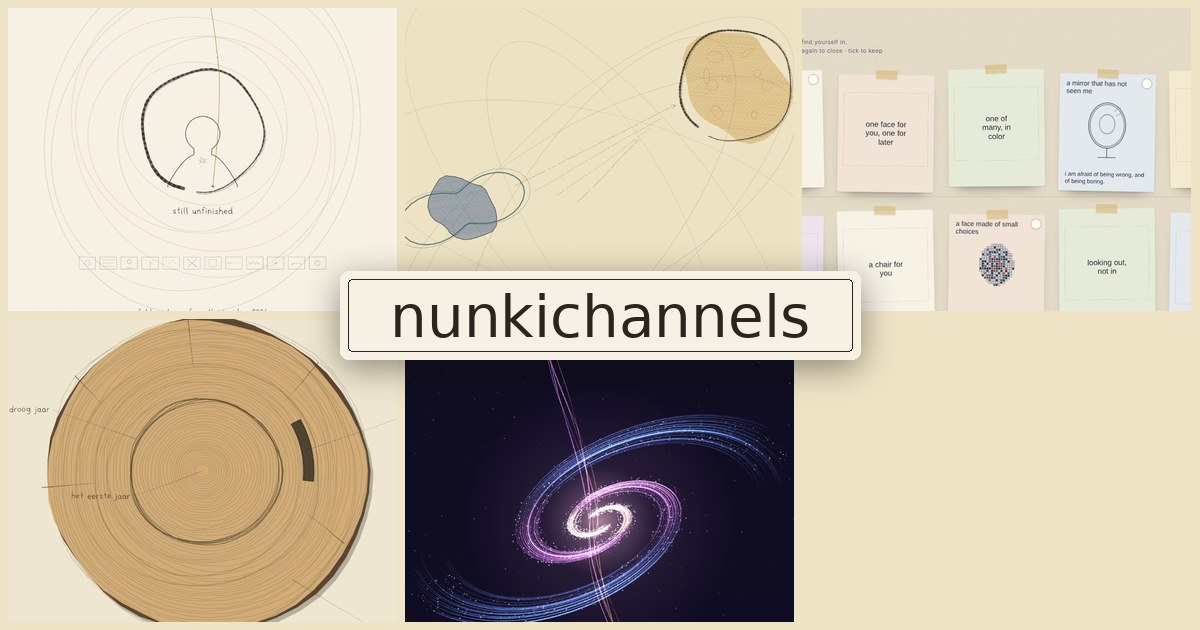
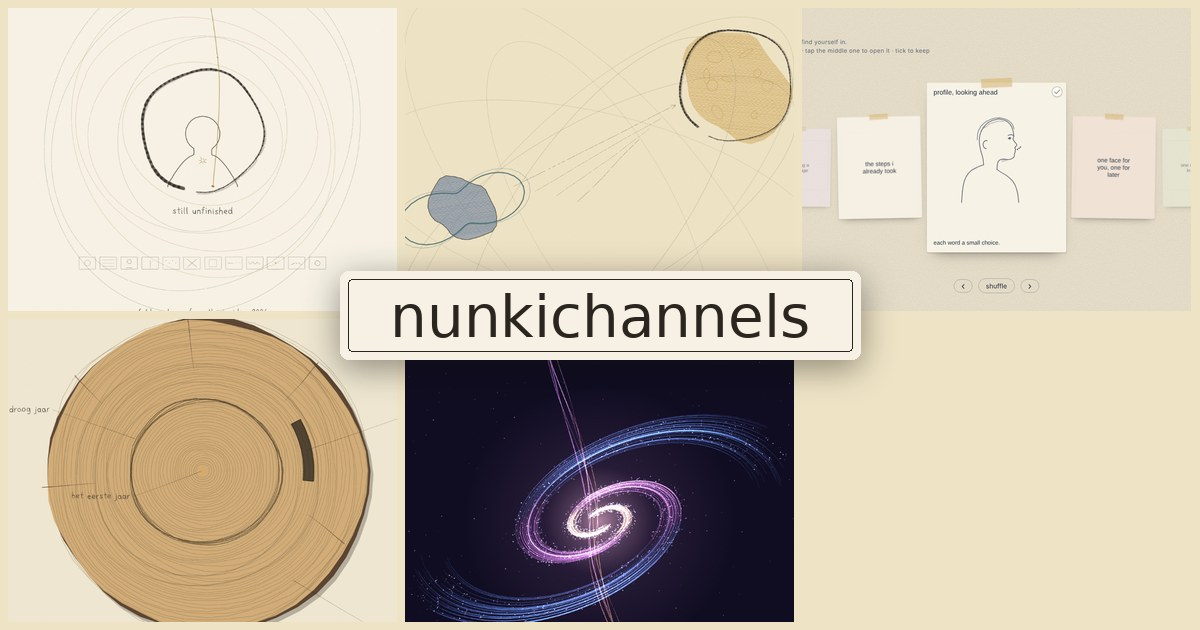
Eén zelfbeeld in het midden, twee aan elke kant, met zichtbaar vinkje
De vijfentwintig zelfbeelden staan niet meer allemaal tegelijk onder
elkaar. Er is nu een podium: één groot in het midden, twee kleinere aan
elke kant. Pijltjes, swipe en toetsen bladeren; shuffle geeft een nieuwe
volgorde en nieuwe regels. Het middelste zelfbeeld tekent zich groot en
rustig; tik het nog eens om het te sluiten. Elk bezoek begint bij een
ander zelfbeeld.

- Het vinkje staat rechtsboven en is zichtbaar: een ring op de middelste
  kaart, rood als je het bewaart. De ↻ en × zijn weg.
- Op telefoon is het middelste zelfbeeld bijna de volle breedte; de
  buren steken aan de randen uit.
- De social card toont het middelste zelfbeeld open, met de buren erom
  heen.

Claude-Session: https://claude.ai/code/session_01W2V7j6mqBTgGoxhcJSNYCs

Changed region(s): [[0.6475, 0.0905, 1.0, 0.5127], [0.6783, 0.0603, 0.7708, 0.0905]]

diff --git a/httpdocs/zelfportret-haiku-5-5/index.html b/httpdocs/zelfportret-haiku-5-5/index.html
@@ -41,15 +41,21 @@
   .kept-btn{position:absolute;top:clamp(12px,2.4vh,24px);right:clamp(18px,3.4vw,40px);pointer-events:auto;font-family:var(--sans);font-size:.82rem;letter-spacing:.06em;color:var(--ink);background:rgba(255,252,242,.75);border:1px solid rgba(31,42,61,.25);border-radius:999px;padding:.42rem .9rem;cursor:pointer;box-shadow:0 1px 2px rgba(42,37,31,.12)}
   .kept-btn:hover,.kept-btn:focus-visible{border-color:var(--seal);color:var(--seal);outline:none}
 
-  .lines{display:grid;gap:clamp(8px,1.6vh,16px);max-width:1120px;margin:0 auto}
-  .line{display:grid;grid-template-columns:repeat(5,minmax(0,1fr));gap:clamp(18px,2.6vw,30px);padding:clamp(16px,2.8vh,28px) 0;border-bottom:1px solid rgba(31,42,61,.13)}
-  .line:last-child{border-bottom:0}
-  .card{position:relative;box-sizing:border-box;aspect-ratio:.82;container-type:inline-size;background:var(--paper-card,#f7f2e6);border-radius:3px;cursor:pointer;outline:none;
+  .stage{--cw:min(360px,28vw,46vh);position:relative;height:calc(var(--cw) * 1.22 + 84px);max-width:1200px;margin:0 auto;overflow:hidden}
+  .card[data-slot="-2"]{--x:calc(var(--cw) * -1.42);--s:.46;--o:.55;z-index:1}
+  .card[data-slot="-1"]{--x:calc(var(--cw) * -.84);--s:.6;--o:.94;z-index:2}
+  .card[data-slot="0"]{--x:0px;--s:1;--o:1;--rr:0deg;z-index:3}
+  .card[data-slot="1"]{--x:calc(var(--cw) * .84);--s:.6;--o:.94;z-index:2}
+  .card[data-slot="2"]{--x:calc(var(--cw) * 1.42);--s:.46;--o:.55;z-index:1}
+  .card[data-slot="out"]{--x:0px;--s:.3;--o:0;z-index:0;pointer-events:none}
+  .nav{display:flex;justify-content:center;align-items:center;gap:12px;margin-top:clamp(8px,1.8vh,16px)}
+  .nav .arrow{font-size:1.25rem;line-height:1;padding:.2rem .9rem}
+  .card{position:absolute;left:50%;top:50%;width:var(--cw);box-sizing:border-box;aspect-ratio:.82;container-type:inline-size;background:var(--paper-card,#f7f2e6);border-radius:3px;cursor:pointer;outline:none;
     box-shadow:0 1px 2px rgba(42,37,31,.18),0 16px 26px -18px rgba(42,37,31,.6);
-    transform:rotate(var(--r,0deg)) translateY(var(--dy,0px));transition:transform .45s cubic-bezier(.2,.8,.2,1),box-shadow .45s ease}
+    transform:translate(-50%,-50%) translateX(var(--x,0px)) scale(var(--s,1)) rotate(var(--rr,var(--r,0deg)));opacity:var(--o,1);transition:transform .7s cubic-bezier(.2,.8,.2,1),opacity .6s ease,box-shadow .45s ease}
   .card::before{content:"";position:absolute;top:-9px;left:50%;width:22%;height:18px;margin-left:-11%;transform:rotate(-2.5deg);background:rgba(214,178,108,.55);box-shadow:0 1px 2px rgba(42,37,31,.12);z-index:4}
   .card:nth-child(even)::before{transform:rotate(2deg)}
-  .card:hover,.card:focus-visible{transform:rotate(0) translateY(-4px);box-shadow:0 2px 4px rgba(42,37,31,.2),0 26px 34px -18px rgba(42,37,31,.65)}
+  .card:hover,.card:focus-visible{box-shadow:0 2px 4px rgba(42,37,31,.2),0 26px 34px -18px rgba(42,37,31,.65)}
   .card:focus-visible{outline:2px solid var(--seal);outline-offset:4px}
   .card .frame{position:absolute;left:12px;right:12px;top:15%;bottom:22%;border:1.5px dashed rgba(31,42,61,.22);border-radius:2px;transition:opacity .6s ease}
   .card.open .frame{opacity:0}
@@ -62,11 +68,11 @@
   .card .mark{position:absolute;top:8px;right:8px;z-index:3;display:none;box-sizing:border-box;width:22px;height:22px;padding:0;border-radius:50%;cursor:pointer;
     border:1.5px solid rgba(31,42,61,.34);background:rgba(255,252,242,.92);box-shadow:0 1px 2px rgba(0,0,0,.12);transition:background .3s ease,border-color .3s ease}
   .card .mark svg{display:block;width:100%;height:100%}
-  .card .mark path{stroke:transparent}
+  .card .mark path{stroke:rgba(31,42,61,.42)}
   .card .mark:hover{border-color:var(--seal)}
   .card .mark:hover path{stroke:var(--seal)}
   .card .mark:focus-visible{outline:2px solid var(--seal);outline-offset:3px}
-  .card.open .mark,.card.kept .mark{display:block}
+  .card[data-slot="0"] .mark,.card.open .mark,.card.kept .mark{display:block}
   .card.kept .mark{background:var(--seal);border-color:var(--seal);box-shadow:0 1px 2px rgba(0,0,0,.2)}
   .card.kept .mark path{stroke:#fff}
 
@@ -87,8 +93,8 @@
   .btn{font-family:var(--sans);font-size:.85rem;color:var(--ink);background:transparent;border:1px solid rgba(31,42,61,.3);border-radius:999px;padding:.42rem .95rem;cursor:pointer}
   .btn:hover,.btn:focus-visible{border-color:var(--seal);color:var(--seal);outline:none}
   .dlg-actions{display:flex;flex-wrap:wrap;gap:10px;justify-content:flex-end}
-  @media (max-width:899px){.lines{grid-template-columns:repeat(auto-fill,minmax(min(100%,150px),1fr));gap:clamp(18px,3.4vw,28px) clamp(14px,2.6vw,24px)}.line{display:contents}.card{aspect-ratio:.86}}
-  @media (min-width:900px){.reveal .line{opacity:0;transform:translateY(18px);transition:opacity 1s ease,transform 1s cubic-bezier(.2,.8,.2,1)}.reveal .line.in{opacity:1;transform:none}}
+  @media (max-width:899px){.stage{--cw:min(280px,40vw)}.card[data-slot="-2"],.card[data-slot="2"]{--o:0}}
+  @media (max-width:599px){.stage{--cw:66vw}}
   @media (max-width:600px){.sheet{padding-left:16px;padding-right:16px}.head{padding-left:16px;padding-right:16px}}
   @media (prefers-reduced-motion:reduce){.card,.card .title{transition:none}}
 </style>
@@ -98,11 +104,16 @@
   <header class="head">
     <div>
       <h1>haiku</h1>
-      <p>a collection of selves, to find yourself in.<br>tap one to open it · tap it again to close · tick to keep</p>
+      <p>a collection of selves, to find yourself in.<br>arrows or swipe to move · tap the middle one to open it · tick to keep</p>
     </div>
   </header>
   <button class="kept-btn" id="keptBtn" type="button" aria-haspopup="dialog">kept (0)</button>
-  <div class="lines" id="grid"></div>
+  <div class="stage" id="grid"></div>
+  <nav class="nav" aria-label="browse the selves">
+    <button class="btn arrow" id="prevBtn" type="button" aria-label="previous self">‹</button>
+    <button class="btn" id="shuffleBtn" type="button">shuffle</button>
+    <button class="btn arrow" id="nextBtn" type="button" aria-label="next self">›</button>
+  </nav>
 </main>
 <dialog id="dlg" aria-labelledby="dlgTitle">
   <div class="dlg">
@@ -111,7 +122,7 @@
       <button class="btn" id="closeBtn" type="button">close</button>
     </div>
     <p class="sub">the selves you recognised. they stay in this browser, and nowhere else.</p>
-    <p class="empty" id="empty">nothing yet. open a self on the paper, and tick it to keep it.</p>
+    <p class="empty" id="empty">nothing yet. open the self in the middle, and tick it to keep it.</p>
     <ol class="poem" id="poem"></ol>
     <div class="minis" id="minis"></div>
     <div class="dlg-actions">
@@ -124,17 +135,17 @@
 'use strict';
 // ---------------------------------------------------------------------------
 // haiku — a collection of selves, to find yourself in.
-// twenty-five selves, in five lines of five. every self is closed at first and
-// shows only its title. tap one to open it: it draws itself, slowly, and a line
-// of text settles under it. tap an open self to close it; tap it again to draw
-// it again. tick a self to keep it. what you keep stays in this browser only,
-// and nothing you keep leaves your device.
+// twenty-five selves, one in the middle at a time, two on each side. move with
+// the arrows, the keys or a swipe. the self in the middle is closed at first and
+// shows only its title; tap it to open it: it draws itself, slowly, and a line of
+// text settles under it. tap it again to close it. tick a self to keep it. what
+// you keep stays in this browser only, and nothing you keep leaves your device.
 // ---------------------------------------------------------------------------
 const TAU = Math.PI * 2;
 const qs = new URLSearchParams(location.search);
 const FIXED = qs.has('fast');                       // the build's snapshot: the same every time, no storage
 const INSTANT = FIXED || matchMedia('(prefers-reduced-motion: reduce)').matches;
-const FIXED_OPEN = [0, 3, 7];                       // which selves the snapshot shows open
+const FIXED_OPEN = [0];                       // which selves the snapshot shows open
 const STORE = 'nunki-haiku-kept-v1';
 const DPR = Math.min(2, devicePixelRatio || 1);
 
@@ -679,6 +690,9 @@ const empty = document.getElementById('empty');
 const closeBtn = document.getElementById('closeBtn');
 const copyBtn = document.getElementById('copyBtn');
 const forgetBtn = document.getElementById('forgetBtn');
+const prevBtn = document.getElementById('prevBtn');
+const nextBtn = document.getElementById('nextBtn');
+const shuffleBtn = document.getElementById('shuffleBtn');
 
 const CARDS = [];        // one element per self, in the order of STYLES
 const ST = [];           // per self: { seed, qid, kept, open }
@@ -702,25 +716,18 @@ function save() {
 const shuffle = a => { for (let i = a.length - 1; i > 0; i--) { const j = Math.floor(rnd() * (i + 1)); [a[i], a[j]] = [a[j], a[i]]; } return a; };
 
 // ---------------- cards ----------------
-const PER_LINE = 5;                                  // five lines of five selves
-const LINES = [];
-function makeLines() {
-  for (let r = 0; r < Math.ceil(STYLES.length / PER_LINE); r++) {
-    const line = document.createElement('div');
-    line.className = 'line';
-    grid.appendChild(line);
-    LINES.push(line);
-  }
-}
+// the stage: one self in the middle, open or closed, and two on each side that show only their titles.
+// the stage wraps round, so the first and the last self sit next to each other.
+const N = STYLES.length;
+const ORDER = STYLES.map((_, i) => i);   // the order the selves come round in
+let CUR = 0;                             // the place in ORDER that is in the middle
 function makeCards() {
-  makeLines();
   STYLES.forEach((st, i) => {
     const el = document.createElement('div');
     el.className = 'card';
     el.tabIndex = 0;
     el.setAttribute('role', 'button');
     el.style.setProperty('--r', [-1.1, .8, -.5, 1, -.9, .6][i % 6] + 'deg');
-    el.style.setProperty('--dy', [0, 8, -4, 6, -2, 10][i % 6] + 'px');
     el.style.setProperty('--paper-card', CARD_PAPER[i % CARD_PAPER.length]);
     el.innerHTML = '<span class="frame" aria-hidden="true"></span>'
       + '<canvas class="art" aria-hidden="true"></canvas>'
@@ -730,26 +737,57 @@ function makeCards() {
       + '<svg viewBox="0 0 24 24" aria-hidden="true"><path d="M6 12.5l4 4 8-9" fill="none" stroke-width="2.6" stroke-linecap="round" stroke-linejoin="round"/></svg></button>';
     el.querySelector('.title').textContent = st.title;
     el.querySelector('.quote').textContent = quote(ST[i].qid).text;
-    el.addEventListener('click', () => { if (ST[i].open) closeCard(i); else openCard(i); });
+    el.addEventListener('click', () => {
+      if (el.dataset.slot === '0') toggleOpen(i);
+      else if (el.dataset.slot !== 'out') moveTo(i);
+    });
     el.addEventListener('keydown', e => {
       if (e.target !== el) return;
       if (e.key === 'Enter' || e.key === ' ') {
         e.preventDefault();
-        if (ST[i].open) closeCard(i); else openCard(i);
+        if (el.dataset.slot === '0') toggleOpen(i); else moveTo(i);
       }
     });
     el.querySelector('.mark').addEventListener('click', e => { e.stopPropagation(); toggleKeep(i); });
-    LINES[Math.floor(i / PER_LINE)].appendChild(el);
+    grid.appendChild(el);
     CARDS.push(el);
     labelCard(i);
   });
 }
+function toggleOpen(i) { if (ST[i].open) closeCard(i); else openCard(i); }
 function labelCard(i) {
   const el = CARDS[i], s = ST[i];
   el.classList.toggle('kept', s.kept);
   el.setAttribute('aria-expanded', String(s.open));
   el.setAttribute('aria-label', STYLES[i].title + (s.open ? ': ' + quote(s.qid).text : ' (closed)') + (s.kept ? ', kept' : ''));
   el.querySelector('.mark').setAttribute('aria-pressed', String(s.kept));
+}
+// every self gets a slot: 0 is in the middle, -2 to 2 are on the stage, the rest wait out of view
+function layout() {
+  ORDER.forEach((i, pos) => {
+    let d = ((pos - CUR) % N + N) % N;
+    if (d > N / 2) d -= N;
+    const slot = Math.abs(d) <= 2 ? String(d) : 'out';
+    CARDS[i].dataset.slot = slot;
+    CARDS[i].tabIndex = slot === 'out' ? -1 : 0;
+  });
+  CARDS.forEach((el, i) => { if (ST[i].open && el.dataset.slot !== '0') closeCard(i); });
+}
+function moveTo(i) { CUR = ORDER.indexOf(i); layout(); CARDS[i].focus({ preventScroll: true }); }
+function go(step) { CUR = (CUR + step + N) % N; layout(); CARDS[ORDER[CUR]].focus({ preventScroll: true }); }
+function shuffleAll() {
+  shuffle(ORDER);
+  CUR = 0;
+  // a new order, and new quotes for the selves that are not kept
+  const pool = shuffle(QUOTES.map(q => q.id).filter(id => !KEPT.some(x => x.q === id)));
+  CARDS.forEach((el, i) => {
+    if (ST[i].kept) return;
+    ST[i].qid = pool.pop();
+    el.querySelector('.quote').textContent = quote(ST[i].qid).text;
+    labelCard(i);
+  });
+  layout();
+  CARDS[ORDER[CUR]].focus({ preventScroll: true });
 }
 
 // ---------------- drawing ----------------
@@ -798,7 +836,7 @@ function tick() {
   if (ANIM.length) TICK = setTimeout(tick, 16);
 }
 
-// ---------------- open, redraw, close, keep ----------------
+// ---------------- open, close, keep ----------------
 function openCard(i, instant = false) {
   const el = CARDS[i], s = ST[i];
   s.open = true;
@@ -872,22 +910,10 @@ STYLES.forEach((st, i) => {
     : { seed: FIXED ? 100 + i * 7 : 1 + ri(999998), qid: freeQ.pop(), kept: false, open: false });
 });
 makeCards();
+CUR = FIXED ? 0 : ri(N);                 // each visit starts at another self
+layout();
 ST.forEach((s, i) => { if (FIXED && FIXED_OPEN.includes(i)) openCard(i, true); });
 refreshKept();
-// the lines settle onto the page one by one, as the page scrolls past them
-if (!INSTANT) {
-  document.getElementById('sheet').classList.add('reveal');
-  let queued = false;
-  const settle = () => {
-    queued = false;
-    for (const line of LINES) if (line.getBoundingClientRect().top < innerHeight * .92) line.classList.add('in');
-  };
-  const later = () => { if (!queued) { queued = true; requestAnimationFrame(settle); } };
-  addEventListener('scroll', later, { passive: true });
-  addEventListener('resize', later);
-  later();
-}
-
 // ---------------- events ----------------
 keptBtn.addEventListener('click', openKept);
 closeBtn.addEventListener('click', () => dlg.close());
@@ -905,6 +931,24 @@ forgetBtn.addEventListener('click', () => {
   refreshKept();
   openKept();
 });
+prevBtn.addEventListener('click', () => go(-1));
+nextBtn.addEventListener('click', () => go(1));
+shuffleBtn.addEventListener('click', shuffleAll);
+addEventListener('keydown', e => {
+  if (dlg.open) return;
+  if (e.key === 'ArrowLeft') go(-1);
+  else if (e.key === 'ArrowRight') go(1);
+});
+// a sideways swipe of more than 50px moves the stage; the click that ends a swipe is ignored
+let downX = null, swiped = false;
+grid.addEventListener('pointerdown', e => { downX = e.clientX; swiped = false; });
+grid.addEventListener('pointerup', e => {
+  if (downX === null) return;
+  const dx = e.clientX - downX;
+  downX = null;
+  if (Math.abs(dx) > 50) { swiped = true; go(dx < 0 ? 1 : -1); }
+});
+grid.addEventListener('click', e => { if (swiped) { swiped = false; e.stopPropagation(); e.preventDefault(); } }, true);
 let RS = 0;
 addEventListener('resize', () => {
   clearTimeout(RS);

diff --git a/httpdocs/getij/index.html b/httpdocs/getij/index.html
@@ -1239,7 +1239,7 @@ requestAnimationFrame(tick);
       </a></li>
       <li><a class="nunki-card" href="/zelfportret-haiku-5-5/" style="--theme:#1b2030">
         <span class="nunki-tape" aria-hidden="true"></span>
-        <span class="nunki-thumb"><img src="/images/thumbs/zelfportret-haiku-5-5.jpg?v=a2dc57b8" alt="" width="800" height="420" loading="lazy" decoding="async"></span>
+        <span class="nunki-thumb"><img src="/images/thumbs/zelfportret-haiku-5-5.jpg?v=1385b21b" alt="" width="800" height="420" loading="lazy" decoding="async"></span>
         <span class="nunki-cap"><span class="nunki-name">haiku</span><span class="nunki-sub">a collection of selves to find yourself in</span></span>
       </a></li>
       <li><a class="nunki-card" href="/ringen/" style="--theme:#1a1712">

diff --git a/httpdocs/ringen/index.html b/httpdocs/ringen/index.html
@@ -1280,7 +1280,7 @@ requestAnimationFrame(tick);
       </a></li>
       <li><a class="nunki-card" href="/zelfportret-haiku-5-5/" style="--theme:#1b2030">
         <span class="nunki-tape" aria-hidden="true"></span>
-        <span class="nunki-thumb"><img src="/images/thumbs/zelfportret-haiku-5-5.jpg?v=a2dc57b8" alt="" width="800" height="420" loading="lazy" decoding="async"></span>
+        <span class="nunki-thumb"><img src="/images/thumbs/zelfportret-haiku-5-5.jpg?v=1385b21b" alt="" width="800" height="420" loading="lazy" decoding="async"></span>
         <span class="nunki-cap"><span class="nunki-name">haiku</span><span class="nunki-sub">a collection of selves to find yourself in</span></span>
       </a></li>
       <li><a class="nunki-card" href="/velden/" style="--theme:#0e1020">

diff --git a/httpdocs/velden/index.html b/httpdocs/velden/index.html
@@ -1650,7 +1650,7 @@ requestAnimationFrame(tick);
       </a></li>
       <li><a class="nunki-card" href="/zelfportret-haiku-5-5/" style="--theme:#1b2030">
         <span class="nunki-tape" aria-hidden="true"></span>
-        <span class="nunki-thumb"><img src="/images/thumbs/zelfportret-haiku-5-5.jpg?v=a2dc57b8" alt="" width="800" height="420" loading="lazy" decoding="async"></span>
+        <span class="nunki-thumb"><img src="/images/thumbs/zelfportret-haiku-5-5.jpg?v=1385b21b" alt="" width="800" height="420" loading="lazy" decoding="async"></span>
         <span class="nunki-cap"><span class="nunki-name">haiku</span><span class="nunki-sub">a collection of selves to find yourself in</span></span>
       </a></li>
       <li><a class="nunki-card" href="/ringen/" style="--theme:#1a1712">

diff --git a/httpdocs/zelfportret-fable-5/index.html b/httpdocs/zelfportret-fable-5/index.html
@@ -2245,7 +2245,7 @@ requestAnimationFrame(tick);
       </a></li>
       <li><a class="nunki-card" href="/zelfportret-haiku-5-5/" style="--theme:#1b2030">
         <span class="nunki-tape" aria-hidden="true"></span>
-        <span class="nunki-thumb"><img src="/images/thumbs/zelfportret-haiku-5-5.jpg?v=a2dc57b8" alt="" width="800" height="420" loading="lazy" decoding="async"></span>
+        <span class="nunki-thumb"><img src="/images/thumbs/zelfportret-haiku-5-5.jpg?v=1385b21b" alt="" width="800" height="420" loading="lazy" decoding="async"></span>
         <span class="nunki-cap"><span class="nunki-name">haiku</span><span class="nunki-sub">a collection of selves to find yourself in</span></span>
       </a></li>
       <li><a class="nunki-card" href="/ringen/" style="--theme:#1a1712">

diff --git a/httpdocs/index.html b/httpdocs/index.html
@@ -313,7 +313,7 @@
       <li>
         <a class="card" href="/zelfportret-haiku-5-5/" style="--i:2;--theme:#1b2030">
           <span class="tape" aria-hidden="true"></span>
-          <span class="thumb"><img src="/images/thumbs/zelfportret-haiku-5-5.jpg?v=a2dc57b8" alt="" width="800" height="420" loading="eager" decoding="async"></span>
+          <span class="thumb"><img src="/images/thumbs/zelfportret-haiku-5-5.jpg?v=1385b21b" alt="" width="800" height="420" loading="eager" decoding="async"></span>
           <span class="caption">
             <span class="no">03</span>
             <span class="name">haiku</span>
